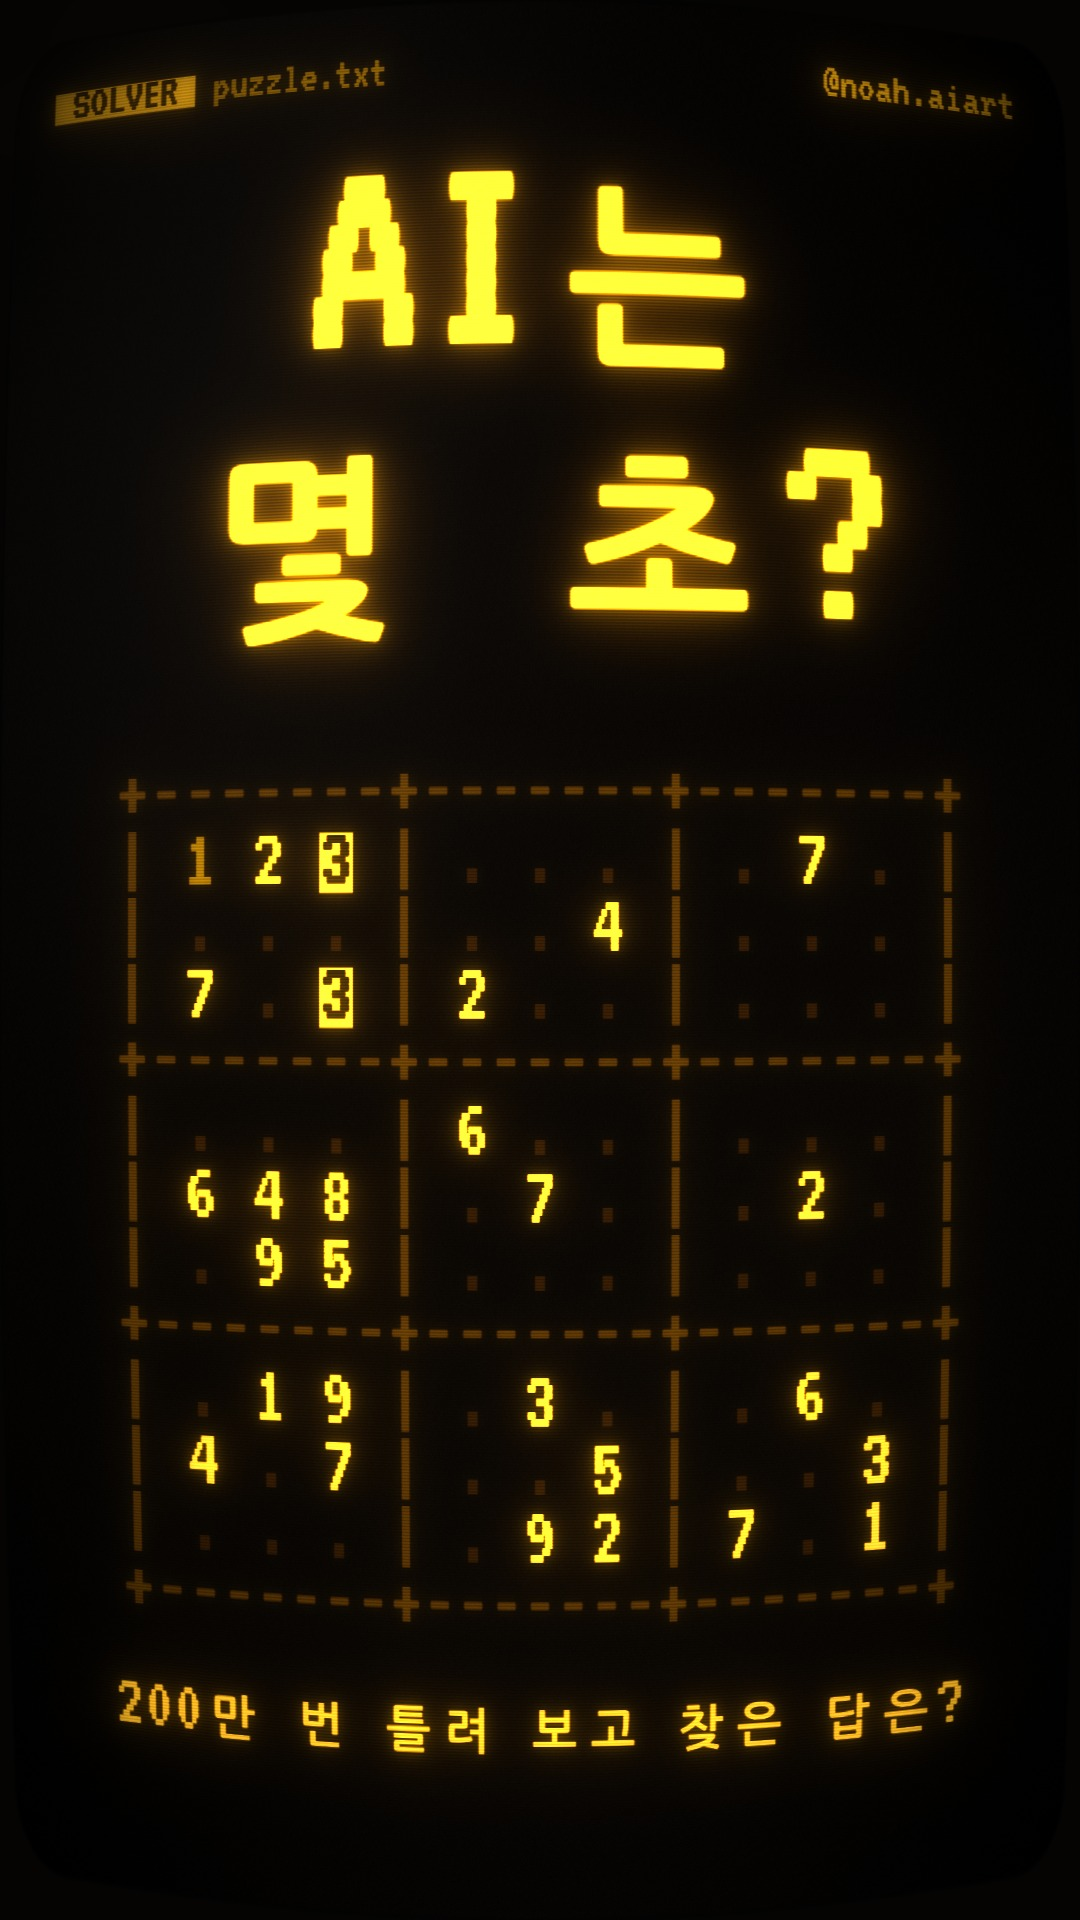
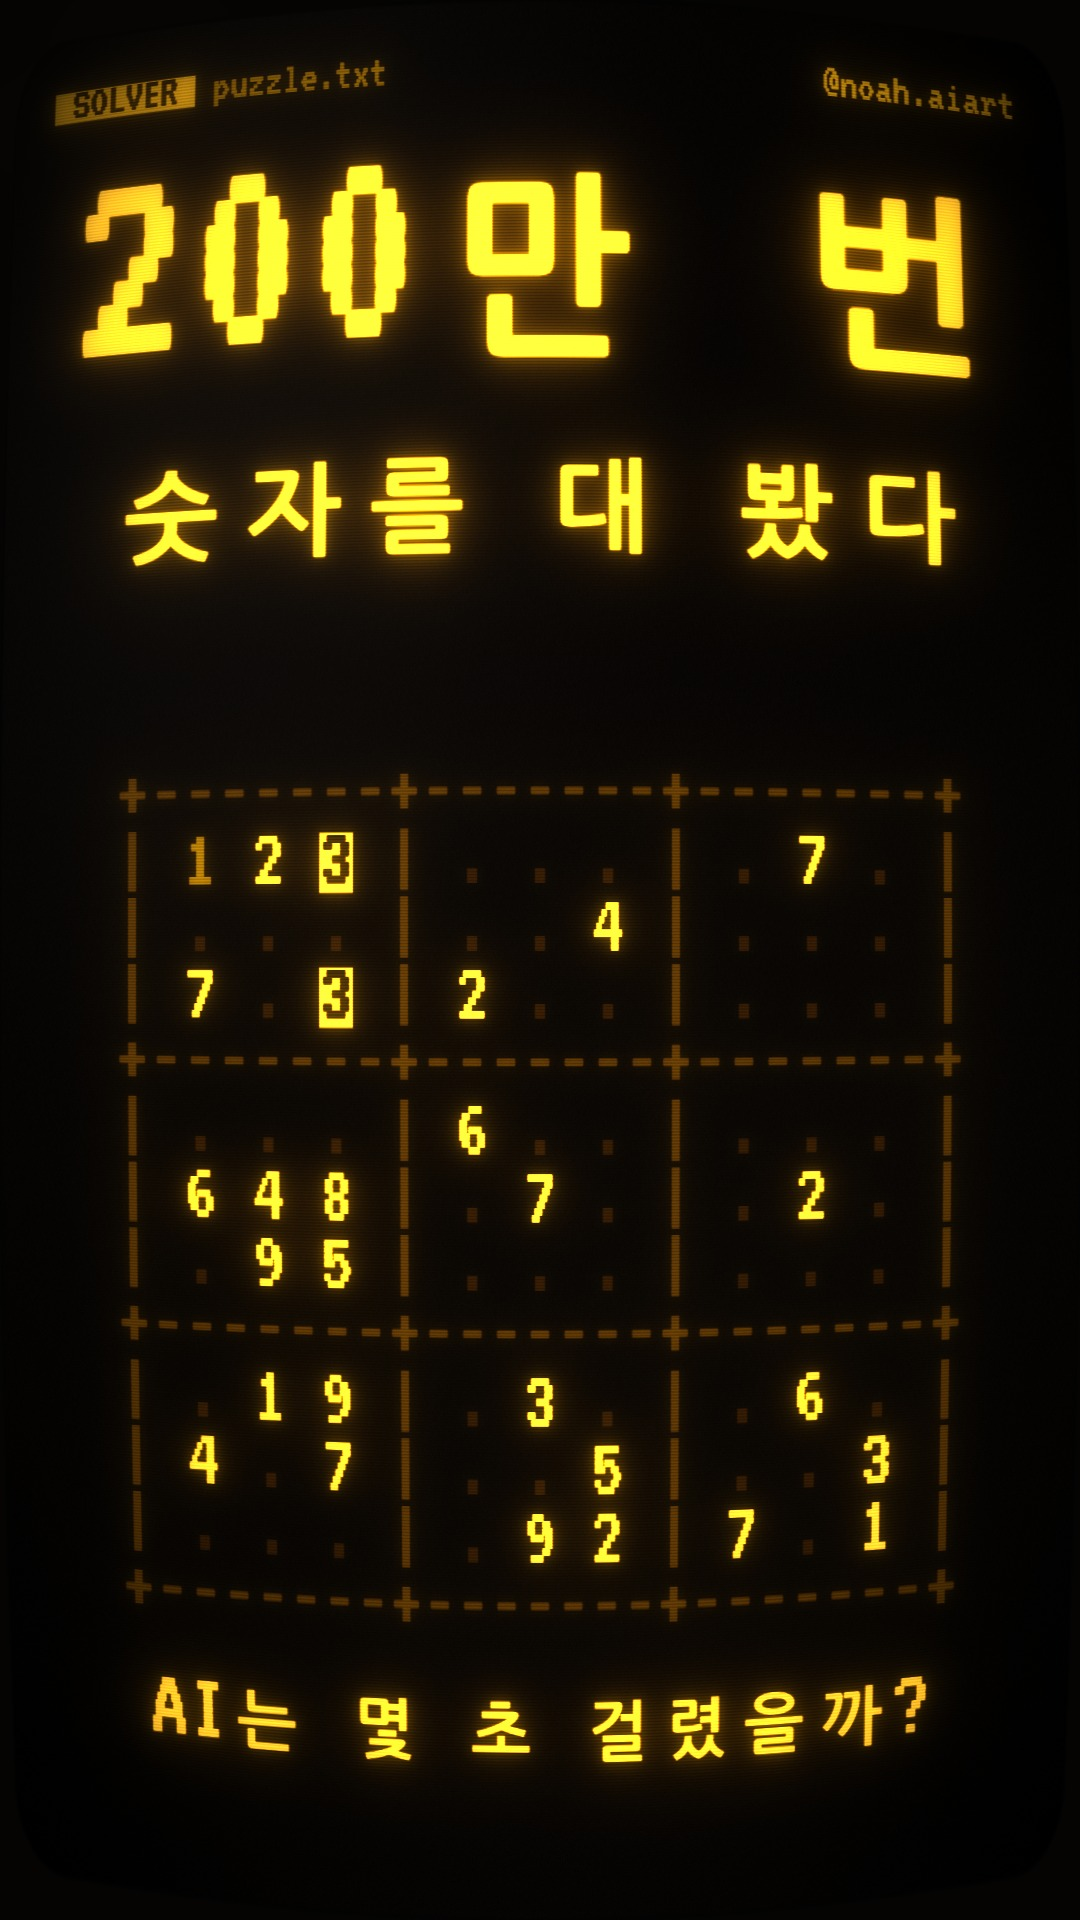
Lead the Sudoku thumbnail with "200만 번"
The specific number is a stronger hook than the question. The wording is
"숫자를 대 봤다" (tried), not "틀렸다": of the 1,988,853 tries, 221,008 fit,
so the failures number about 1.77 million. The earlier line "200만 번
틀려 보고" overstated that and is gone.

Claude-Session: https://claude.ai/code/session_01HMMAodZzT2qEVemz6GYBwf

Changed region(s): [[0.0611, 0.0625, 0.9167, 0.3438], [0.0917, 0.875, 0.8861, 0.9375], [0.0917, 0.2188, 0.4583, 0.3438]]

diff --git a/sudoku-ai-1030/main.js b/sudoku-ai-1030/main.js
@@ -306,13 +306,13 @@ function film(t) {
 }
 
 // ===================== Thumbnail (?frame=thumb): the question, an unsolved board mid-try, and the hook line =====================
-const TH1 = 'AI는', TH2 = '몇 초?', TH3 = '200만 번 틀려 보고 찾은 답은?';
+const TH1 = '200만 번', TH2 = '숫자를 대 봤다', TH3 = 'AI는 몇 초 걸렸을까?';   // 1,988,853 tries (not failures: 221,008 of them fit)
 function thumb() {
   g.globalCompositeOperation = 'source-over'; g.globalAlpha = 1; g.fillStyle = '#000'; g.fillRect(0, 0, W, H);
   g.globalCompositeOperation = 'lighter';
   status();
-  text(g, TH1, 0, 0, head(TH1, 120, 150), 1.25);
-  text(g, TH2, 0, 0, head(TH2, 120, 420), 1.25);
+  text(g, TH1, 0, 0, head(TH1, 120, 140), 1.3);
+  text(g, TH2, 0, 0, head(TH2, 62, 440), 1.05);
   const v = { ox: F.x - 12.5 * 34, oy: 760, cw: 34 };
   board(v, i => {
     if (i === 2) return { layers: [{ ch: '3', a: 1, inv: true }] };          // trying 3 in the third cell…
@@ -320,7 +320,7 @@ function thumb() {
     if (i === 0) return { ch: '1', a: .62 };
     return givenOrDot(i);
   });
-  text(g, TH3, 0, 0, head(TH3, 30, 1700), .95);
+  text(g, TH3, 0, 0, head(TH3, 40, 1690), 1.05);
 }
 
 const CHARSET = [TH1, TH2, TH3, CMD, Q1, A1, Q2, BRAND, LBL_T, LBL_B, CODECMD, NOTE, STATUS_L, STATUS_M, STATUS_R, SEP, '0123456789.|-> ,', '|/-\\', '계산 중', ' LOG ', `-- ${CODE.length} lines --`, ...CODE, ...LINES.map(L => L.text)].join('');

diff --git a/sudoku-ai-1030/UPLOAD.md b/sudoku-ai-1030/UPLOAD.md
@@ -3,7 +3,7 @@
 | 항목 | 값 |
 |---|---|
 | 영상 파일 | `sudoku-ai-1030.mp4` (1080×1920 세로, 30fps, 39초, −14 LUFS) — 60초 이하 세로 영상이라 쇼츠로 올라갑니다 |
-| 썸네일 | `poster.jpg` (질문형: "AI는 몇 초?", 푸는 중인 판, "200만 번 틀려 보고 찾은 답은?") |
+| 썸네일 | `poster.jpg` (숫자형: "200만 번 / 숫자를 대 봤다", 푸는 중인 판, "AI는 몇 초 걸렸을까?") |
 | 자막 | 화면 아래 LOG 줄에 새겨져 있음. `sudoku-ai-1030.srt`도 따로 올릴 수 있음 |
 | 시청자층 | 아동용 아님 |
 | 카테고리 | 교육 |
